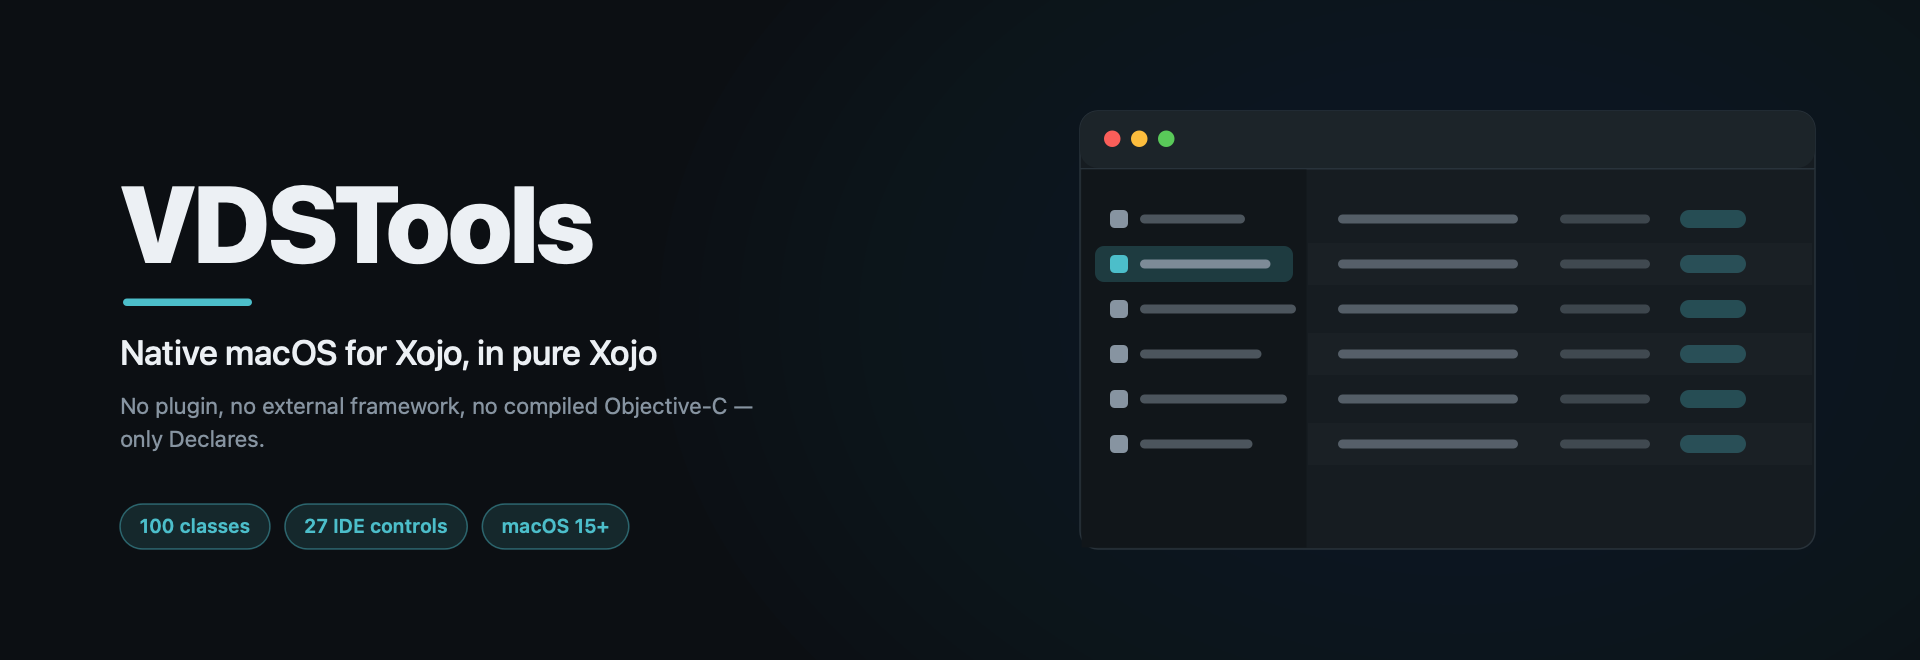
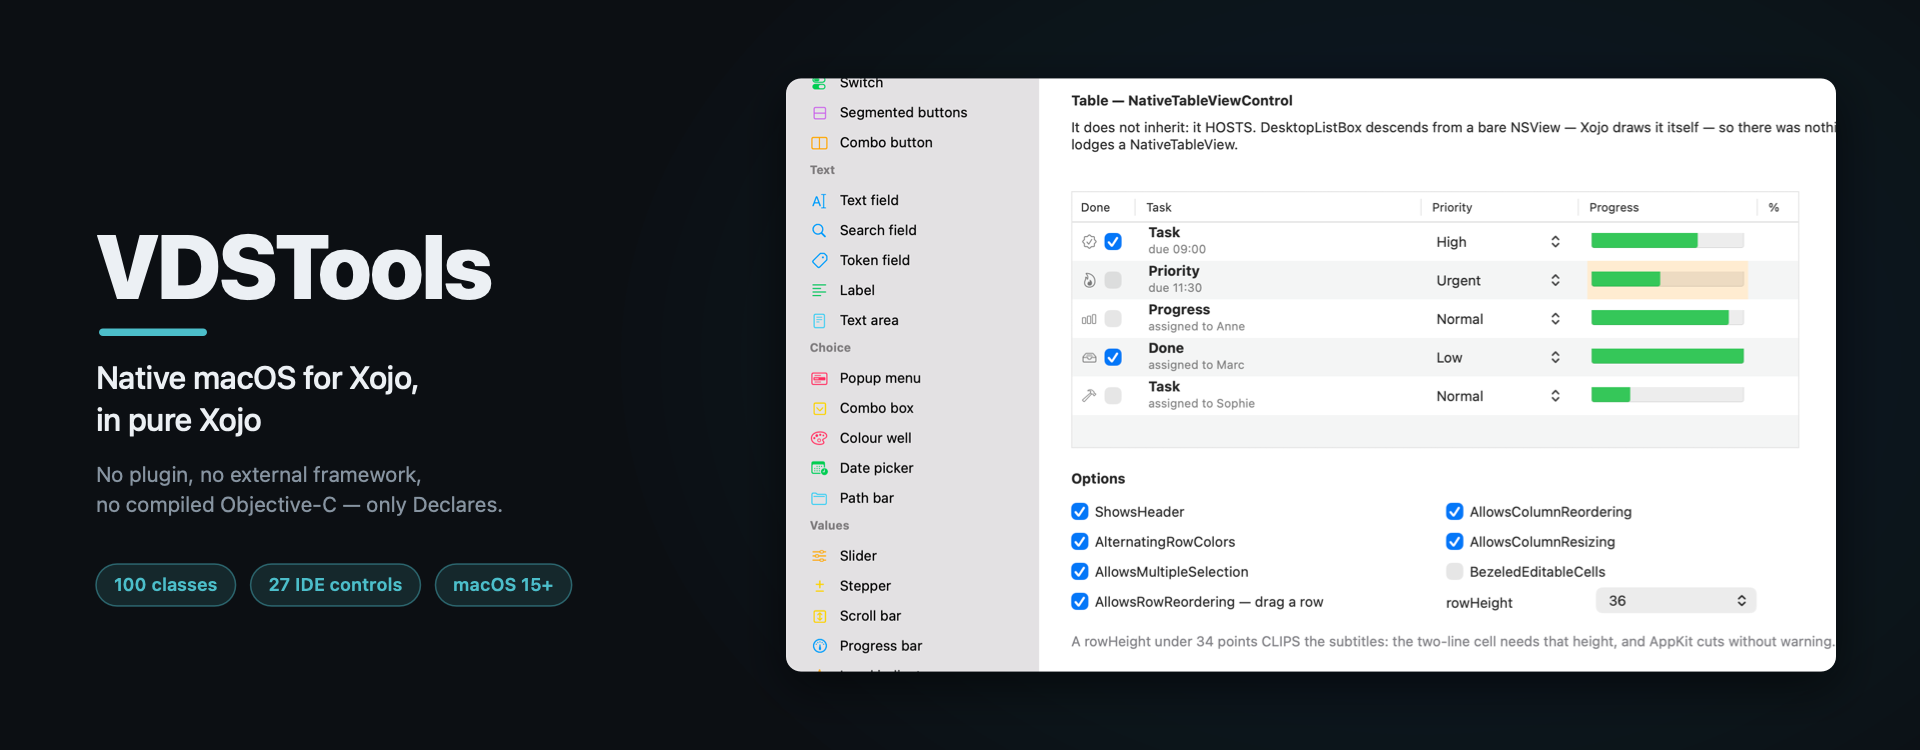
bannière : la vraie fenêtre Contrôles plaçables, en français et en anglais

diff --git a/tools/banner.m b/tools/banner.m
@@ -10,96 +10,91 @@ static void draw(NSString *s, NSPoint at, NSFont *f, NSColor *c, CGFloat trackin
   if (tracking != 0) a[NSKernAttributeName] = @(tracking);
   [s drawAtPoint:at withAttributes:a];
 }
-static void render(NSString *out, CGFloat H, BOOL en) {
-  const CGFloat W = 1280, S = 1.5;   // 1920 px de large : assez pour un écran Retina, deux fois moins lourd qu'en 2x
-  const CGFloat dy = (H - 440) / 2;
+static void render(NSString *out, NSString *shotPath, CGFloat H, BOOL en) {
+  const CGFloat W = 1280, S = 1.5;
+  const CGFloat dy = (H - 500) / 2;
   NSColor *ink   = [NSColor colorWithSRGBRed:0.925 green:0.941 blue:0.957 alpha:1];
   NSColor *muted = [NSColor colorWithSRGBRed:0.53 green:0.58 blue:0.63 alpha:1];
   NSColor *acc   = [NSColor colorWithSRGBRed:0.298 green:0.745 blue:0.792 alpha:1];
   NSColor *bg1   = [NSColor colorWithSRGBRed:0.047 green:0.059 blue:0.075 alpha:1];
   NSColor *bg2   = [NSColor colorWithSRGBRed:0.074 green:0.114 blue:0.133 alpha:1];
-  NSColor *card  = [NSColor colorWithSRGBRed:0.086 green:0.11  blue:0.129 alpha:1];
-  NSColor *rule  = [NSColor colorWithSRGBRed:0.16  green:0.20  blue:0.23  alpha:1];
 
   NSBitmapImageRep *rep = [[NSBitmapImageRep alloc] initWithBitmapDataPlanes:NULL
       pixelsWide:W*S pixelsHigh:H*S bitsPerSample:8 samplesPerPixel:4 hasAlpha:YES isPlanar:NO
       colorSpaceName:NSDeviceRGBColorSpace bytesPerRow:0 bitsPerPixel:0];
   rep.size = NSMakeSize(W, H);
-  NSGraphicsContext *ctx = [NSGraphicsContext graphicsContextWithBitmapImageRep:rep];
   [NSGraphicsContext saveGraphicsState];
-  [NSGraphicsContext setCurrentContext:ctx];
+  [NSGraphicsContext setCurrentContext:[NSGraphicsContext graphicsContextWithBitmapImageRep:rep]];
 
-  // Fond PLAT, et non un dégradé : NSGradient tramait, ce qui faisait un PNG de
-  // 800 Ko pour une image qui n'a qu'une poignée de couleurs. Un aplat, et une
-  // nappe d'accent posée en coin, donnent la même impression pour 30 Ko.
   [bg1 set]; NSRectFill(NSMakeRect(0,0,W,H));
-  // Une nappe d'accent derrière la figure, en douze couches à peine visibles :
-  // le bord franc d'une seule forme se voyait comme un défaut.
   for (int i = 0; i < 12; i++) {
-    CGFloat k = (CGFloat)i / 12.0, r = 240 + k * 320;
+    CGFloat r = 240 + (CGFloat)i/12.0 * 320;
     [[bg2 colorWithAlphaComponent:.075] set];
-    [[NSBezierPath bezierPathWithOvalInRect:
-        NSMakeRect(W*0.76 - r, H*0.52 - r*0.72, r*2, r*1.44)] fill];
+    [[NSBezierPath bezierPathWithOvalInRect:NSMakeRect(W*0.74 - r, H*0.52 - r*0.72, r*2, r*1.44)] fill];
   }
 
-  // ── à droite : une figure abstraite de fenêtre, pas une fausse capture ──
-  CGFloat wx = 720, wy = 74+dy, ww = 490, wh = 292;
-  rrect(NSMakeRect(wx, wy, ww, wh), 12, card, rule, 1);
-  rrect(NSMakeRect(wx, wy+wh-38, ww, 38), 12, [NSColor colorWithSRGBRed:0.11 green:0.14 blue:0.16 alpha:1], nil, 0);
-  NSRectFill(NSMakeRect(wx, wy+wh-39, ww, 1));
-  [rule set]; NSRectFill(NSMakeRect(wx, wy+wh-39, ww, 1));
-  for (int i = 0; i < 3; i++) {
-    NSColor *d = i==0 ? [NSColor colorWithSRGBRed:.98 green:.37 blue:.35 alpha:1]
-               : i==1 ? [NSColor colorWithSRGBRed:.99 green:.74 blue:.24 alpha:1]
-                      : [NSColor colorWithSRGBRed:.35 green:.79 blue:.35 alpha:1];
-    rrect(NSMakeRect(wx+16+i*18, wy+wh-24, 11, 11), 5.5, d, nil, 0);
-  }
-  // barre latérale
-  rrect(NSMakeRect(wx+1, wy+1, 150, wh-40), 0, [NSColor colorWithSRGBRed:0.067 green:0.086 blue:0.102 alpha:1], nil, 0);
-  for (int i = 0; i < 6; i++) {
-    CGFloat y = wy+wh-78-i*30;
-    if (i == 1) rrect(NSMakeRect(wx+10, y-6, 132, 24), 6, [acc colorWithAlphaComponent:.22], nil, 0);
-    rrect(NSMakeRect(wx+20, y, 12, 12), 3, i==1 ? acc : muted, nil, 0);
-    rrect(NSMakeRect(wx+40, y+3, 70+((i*17)%40), 6), 3, [muted colorWithAlphaComponent:i==1?.9:.5], nil, 0);
-  }
-  // contenu : des lignes de tableau
-  for (int i = 0; i < 6; i++) {
-    CGFloat y = wy+wh-78-i*30;
-    if (i % 2) rrect(NSMakeRect(wx+152, y-8, ww-154, 28), 0, [NSColor colorWithSRGBRed:0.1 green:0.126 blue:0.145 alpha:1], nil, 0);
-    rrect(NSMakeRect(wx+172, y+3, 120, 6), 3, [muted colorWithAlphaComponent:.55], nil, 0);
-    rrect(NSMakeRect(wx+320, y+3, 60, 6), 3, [muted colorWithAlphaComponent:.35], nil, 0);
-    rrect(NSMakeRect(wx+400, y, 44, 12), 6, [acc colorWithAlphaComponent:.30], nil, 0);
-  }
+  // ── la capture, recadrée sur la barre latérale et le tableau ──
+  NSImage *shot = [[NSImage alloc] initWithContentsOfFile:shotPath];
+  NSBitmapImageRep *sr = (NSBitmapImageRep *)shot.representations.firstObject;
+  CGFloat px = sr.pixelsWide, py = sr.pixelsHigh;
+  // recadrage en PIXELS de la source ; l'origine d'un NSRect est en bas à gauche.
+  CGFloat cx0 = 0, cx1 = 1960, cyTop = 98, cyBot = 1205;
+  NSRect src = NSMakeRect(cx0, py - cyBot, cx1 - cx0, cyBot - cyTop);
+  src.origin.x *= shot.size.width / px;  src.size.width  *= shot.size.width / px;
+  src.origin.y *= shot.size.height / py; src.size.height *= shot.size.height / py;
 
-  // ── à gauche : le texte ──
-  draw(@"VDSTools", NSMakePoint(80, 250+dy),
-       [NSFont systemFontOfSize:72 weight:NSFontWeightHeavy], ink, -1.6);
-  rrect(NSMakeRect(82, 236+dy, 86, 5), 2.5, acc, nil, 0);
-  draw(en ? @"Native macOS for Xojo, in pure Xojo" : @"macOS natif pour Xojo, en Xojo pur", NSMakePoint(80, 192+dy),
-       [NSFont systemFontOfSize:23 weight:NSFontWeightMedium], ink, 0);
-  draw(en ? @"No plugin, no external framework, no compiled Objective-C —" : @"Aucun plugin, aucun framework externe, aucun Objective-C compilé —", NSMakePoint(80, 160+dy),
-       [NSFont systemFontOfSize:15 weight:NSFontWeightRegular], muted, 0);
-  draw(en ? @"only Declares." : @"uniquement des Declare.", NSMakePoint(80, 138+dy),
-       [NSFont systemFontOfSize:15 weight:NSFontWeightRegular], muted, 0);
+  CGFloat cardW = 700, cardH = cardW * (cyBot - cyTop) / (cx1 - cx0);
+  NSRect card = NSMakeRect(W - cardW - 56, (H - cardH)/2, cardW, cardH);
 
-  NSArray *chips = en ? @[@"100 classes", @"27 IDE controls", @"macOS 15+"] : @[@"100 classes", @"27 contrôles dans l'IDE", @"macOS 15+"];
-  CGFloat cx = 80;
+  [NSGraphicsContext saveGraphicsState];
+  NSShadow *sh = [NSShadow new];
+  sh.shadowColor = [NSColor colorWithSRGBRed:0 green:0 blue:0 alpha:.55];
+  sh.shadowBlurRadius = 34; sh.shadowOffset = NSMakeSize(0, -10);
+  [sh set];
+  rrect(card, 10, [NSColor colorWithSRGBRed:.1 green:.12 blue:.14 alpha:1], nil, 0);
+  [NSGraphicsContext restoreGraphicsState];
+
+  [NSGraphicsContext saveGraphicsState];
+  [[NSBezierPath bezierPathWithRoundedRect:card xRadius:10 yRadius:10] addClip];
+  [shot drawInRect:card fromRect:src operation:NSCompositingOperationSourceOver fraction:1
+      respectFlipped:YES hints:@{NSImageHintInterpolation:@(NSImageInterpolationHigh)}];
+  [NSGraphicsContext restoreGraphicsState];
+  rrect(NSInsetRect(card, .5, .5), 10, nil, [NSColor colorWithSRGBRed:1 green:1 blue:1 alpha:.14], 1);
+
+  // ── le texte ──
+  draw(@"VDSTools", NSMakePoint(64, 288+dy), [NSFont systemFontOfSize:60 weight:NSFontWeightHeavy], ink, -1.4);
+  rrect(NSMakeRect(66, 276+dy, 72, 5), 2.5, acc, nil, 0);
+  draw(en ? @"Native macOS for Xojo," : @"macOS natif pour Xojo,", NSMakePoint(64, 236+dy),
+       [NSFont systemFontOfSize:21 weight:NSFontWeightMedium], ink, 0);
+  draw(en ? @"in pure Xojo" : @"en Xojo pur", NSMakePoint(64, 208+dy),
+       [NSFont systemFontOfSize:21 weight:NSFontWeightMedium], ink, 0);
+  draw(en ? @"No plugin, no external framework," : @"Aucun plugin, aucun framework externe,", NSMakePoint(64, 176+dy),
+       [NSFont systemFontOfSize:14 weight:NSFontWeightRegular], muted, 0);
+  draw(en ? @"no compiled Objective-C — only Declares." : @"aucun Objective-C compilé — que des Declare.", NSMakePoint(64, 156+dy),
+       [NSFont systemFontOfSize:14 weight:NSFontWeightRegular], muted, 0);
+
+  NSArray *chips = en ? @[@"100 classes", @"27 IDE controls", @"macOS 15+"]
+                      : @[@"100 classes", @"27 contrôles dans l'IDE", @"macOS 15+"];
+  CGFloat x = 64, y = 96+dy;
   for (NSString *c in chips) {
-    NSFont *f = [NSFont systemFontOfSize:13 weight:NSFontWeightSemibold];
+    NSFont *f = [NSFont systemFontOfSize:12 weight:NSFontWeightSemibold];
     CGFloat tw = [c sizeWithAttributes:@{NSFontAttributeName:f}].width;
-    rrect(NSMakeRect(cx, 74+dy, tw+26, 30), 15, [acc colorWithAlphaComponent:.14], [acc colorWithAlphaComponent:.45], 1);
-    draw(c, NSMakePoint(cx+13, 82+dy), f, acc, 0);
-    cx += tw + 26 + 10;
+    if (x + tw + 24 > 480) { x = 64; y -= 36; }
+    rrect(NSMakeRect(x, y, tw+24, 28), 14, [acc colorWithAlphaComponent:.14], [acc colorWithAlphaComponent:.45], 1);
+    draw(c, NSMakePoint(x+12, y+7), f, acc, 0);
+    x += tw + 34;
   }
 
   [NSGraphicsContext restoreGraphicsState];
   [[rep representationUsingType:NSBitmapImageFileTypePNG properties:@{}] writeToFile:out atomically:YES];
-  printf("%s : %.0fx%.0f à %.0fx\n", out.lastPathComponent.UTF8String, W, H, S);
+  printf("%-16s %.0fx%.0f\n", out.lastPathComponent.UTF8String, W, H);
 }
 int main(int argc, char **argv) { @autoreleasepool {
   [NSApplication sharedApplication];
   NSString *d = [NSString stringWithUTF8String:argv[1]];
-  render([d stringByAppendingPathComponent:@"banner-fr.png"], 440, NO);
-  render([d stringByAppendingPathComponent:@"banner-en.png"], 440, YES);
-  render([d stringByAppendingPathComponent:@"social.png"], 640, NO);
+  NSString *fr = [d stringByAppendingPathComponent:@"shot-fr.png"];
+  NSString *en = [d stringByAppendingPathComponent:@"shot-en.png"];
+  render([d stringByAppendingPathComponent:@"banner-fr.png"], fr, 500, NO);
+  render([d stringByAppendingPathComponent:@"banner-en.png"], en, 500, YES);
+  render([d stringByAppendingPathComponent:@"social.png"],    fr, 640, NO);
 }}
